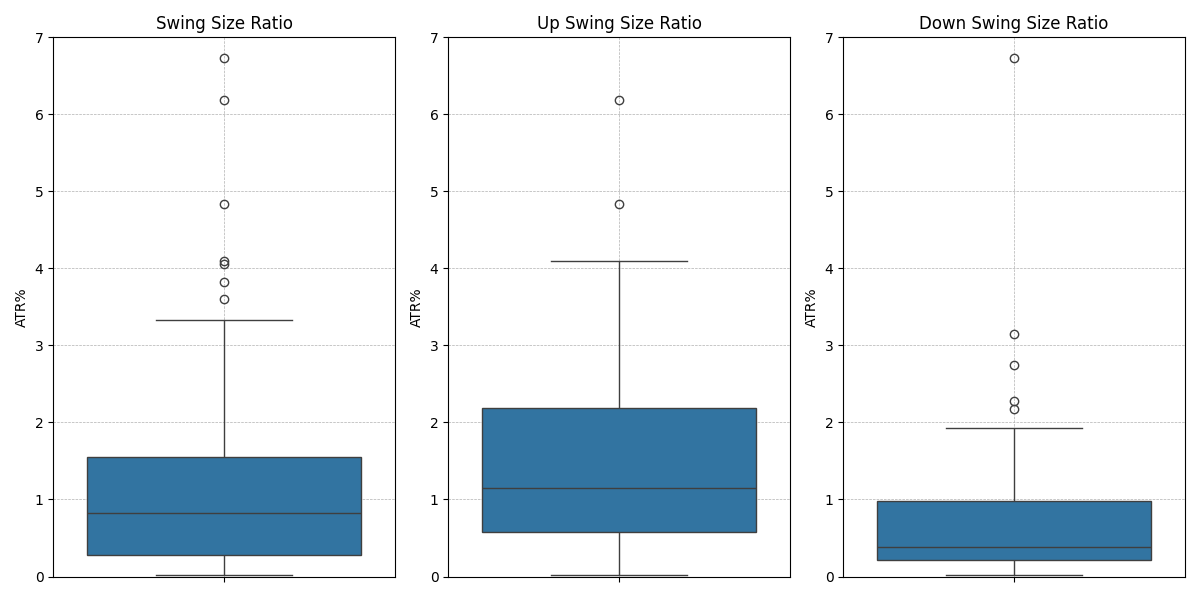
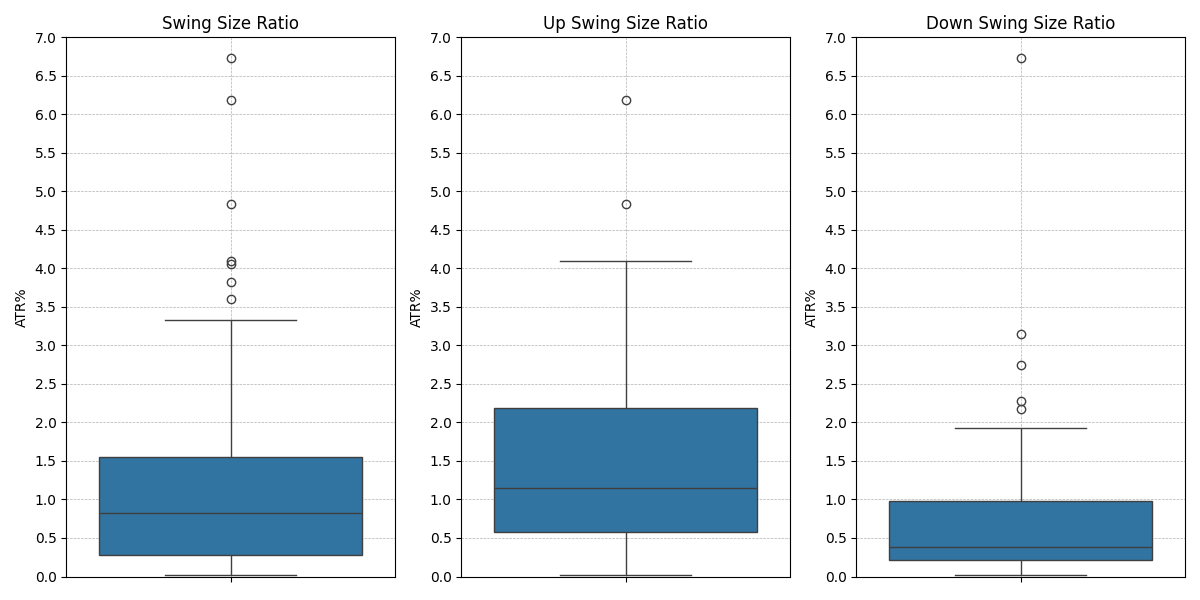
modified:   swing-study/swing-size-ratio-boxplot.png

diff --git a/swing-study/swing-study.py b/swing-study/swing-study.py
@@ -209,9 +209,15 @@ with open('./swing-study/swing-stats.txt', 'w') as f:
     print_descriptive_stats(up_swing_df, 'Swing_Size_Ratio')
     print_descriptive_stats(down_swing_df, 'Swing_Size_Ratio')
     
+    print_descriptive_stats(swing_df, 'Swing_Size%')
+    print_descriptive_stats(up_swing_df, 'Swing_Size%')
+    print_descriptive_stats(down_swing_df, 'Swing_Size%')
+    
     print_descriptive_stats(swing_df, 'Swing_Duration')
     print_descriptive_stats(up_swing_df, 'Swing_Duration')
     print_descriptive_stats(down_swing_df, 'Swing_Duration')
+    
+    
 
     # Reset stdout to default
     sys.stdout = sys.__stdout__
@@ -229,7 +235,7 @@ with open('./swing-study/swing-stats.txt', 'w') as f:
 y_min = 0  # set minimum to 0 for better visualization
 y_max = swing_df['Swing_Size_Ratio'].max()
 
-y_ticks = np.arange(int(np.floor(y_min)), int(np.ceil(y_max)) + 1, 1)
+y_ticks = np.arange(int(np.floor(y_min)), int(np.ceil(y_max)) + 0.5, 0.5)
 
 
 plt.figure(figsize=(12, 6))
@@ -264,6 +270,41 @@ plt.grid(True, which="both", ls="--", linewidth=0.5)
 plt.tight_layout()
 plt.savefig('./swing-study/swing-size-ratio-boxplot.png')
 # plt.show()
+
+# ------------------------------------------------------------------------------------
+# Swing Size %
+# Determine common y-axis limits
+# y_min = swing_df['Swing_Size%'].min()
+y_min = 0
+y_max = swing_df['Swing_Size%'].max()
+# y_ticks = np.arange(int(np.floor(y_min)), int(np.ceil(y_max)) + 1, 1)
+plt.figure(figsize=(12, 6))
+# First subplot
+plt.subplot(1, 3, 1)
+sns.boxplot(data=swing_df, y='Swing_Size%')
+plt.title('Swing Size %')
+plt.ylabel('Percentage %')
+plt.ylim(y_min, y_max)
+# plt.yticks(y_ticks)
+plt.grid(True, which="both", ls="--", linewidth=0.5)
+# Second subplot
+plt.subplot(1, 3, 2)
+sns.boxplot(data=up_swing_df, y='Swing_Size%')
+plt.title('Up Swing Size %')
+plt.ylabel('Percentage %')
+plt.ylim(y_min, y_max)
+# plt.yticks(y_ticks)
+plt.grid(True, which="both", ls="--", linewidth=0.5)
+# Third subplot
+plt.subplot(1, 3, 3)
+sns.boxplot(data=down_swing_df, y='Swing_Size%')
+plt.title('Down Swing Size %')
+plt.ylabel('Percentage %')
+plt.ylim(y_min, y_max)
+# plt.yticks(y_ticks)
+plt.grid(True, which="both", ls="--", linewidth=0.5)
+plt.tight_layout()
+plt.savefig('./swing-study/swing-size-percentage-boxplot.png')
 
 # ------------------------------------------------------------------------------------
 # Duration
